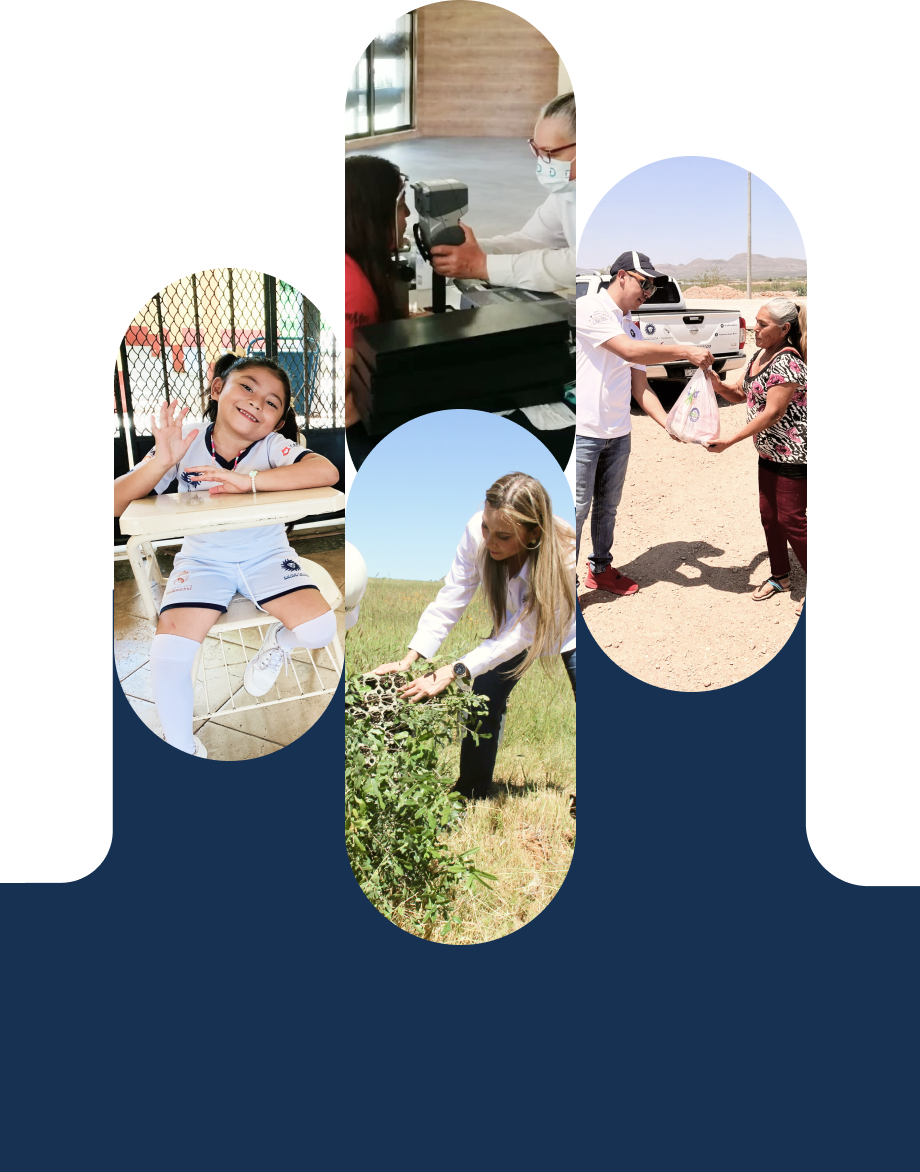
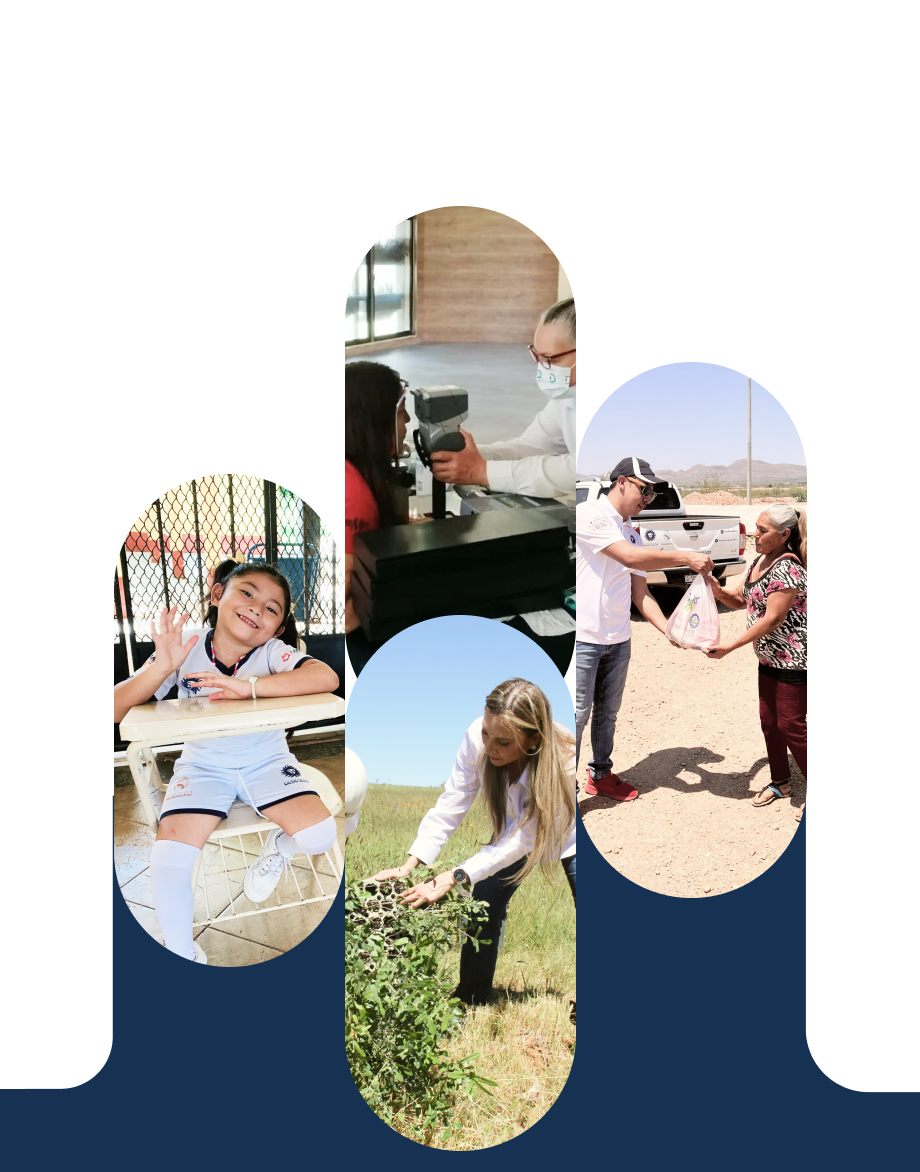
Acomodar elementos

diff --git a/index.php b/index.php
@@ -10,7 +10,8 @@
                     <div class="col-12">
                         <h2>Fundación</h2>
                         <h1 class="fw-bold">Grupo Bafar</h1>
-                        <p>Una institución</p>
+                        <p>Una institución orientada a la formación de los mejores mexicanos.</p>
+                        <a href="#" class="btn btn-primary">Ver más</a>
                     </div>
                 </div>
                 <div class="row">
